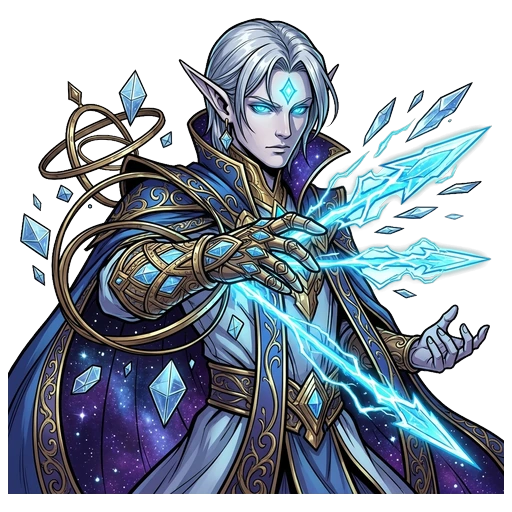
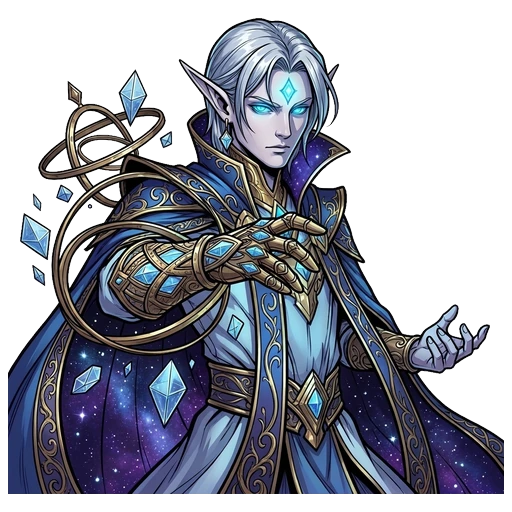
art(cards): remove frost arrows from Cronomante do Terceiro Prisma (blue_177)

Changed region(s): [[0.3438, 0.1562, 0.9688, 0.9375], [0.2812, 0.5938, 0.3438, 0.625], [0.25, 0.5, 0.2812, 0.5312]]

diff --git a/src/data/cardArtPrompts.ts b/src/data/cardArtPrompts.ts
@@ -1055,7 +1055,7 @@ export const CARD_ART_PROMPTS: Record<string, string> = {
   "purple_177_inquisidor_obsidiana_astral": "2D Dark Fantasy gothic baroque cel-shaded ink illustration, lethal pale-haired Astral-Abyssal Elf inquisitor archer with pitch-black void eyes and golden tear-fractures, black-iron and violet armor with starry eclipse rings, aiming a crescent recurve bow of black star-obsidian nocked with a violet void arrow on pure white background.",
   "purple_178_vaelen_oraculo_choro_dourado": "2D Dark Fantasy gothic baroque cel-shaded ink illustration, transcendent Abyssal High Elf Oracle Vaelen with braided white hair, pitch-black void eyes weeping molten gold across his bridge, black-and-purple imperial robes, black-clawed hands ringed in gold, framed by interlocking golden eclipse astrolabes filled with starry black void on pure white background.",
   "blue_176_sentinela_capuz_estelar": "2D Dark Fantasy gothic baroque cel-shaded ink illustration, silver-haired Astral Frost Elf sentinel wearing a white cloak whose inner hood reveals a deep starry sapphire cosmos, cyan-diamond wire circlet and bronze neck-tattoos, drawing a sleek silver-and-sapphire starlight bow on pure white background.",
-  "blue_177_cronomante_terceiro_prisma": "2D Dark Fantasy gothic baroque cel-shaded ink illustration, poised white-haired Boreal Elf chronomancer in star-lined white-and-cobalt robes with glowing cyan forehead crystal and wire crown, unleashing frost-lightning arrows through three interlocking sapphire-and-brass chrono-prisms on pure white background.",
+  "blue_177_cronomante_terceiro_prisma": "2D Dark Fantasy gothic baroque cel-shaded ink illustration, poised white-haired Boreal Elf chronomancer in star-lined white-and-cobalt robes with glowing cyan forehead crystal and brass-and-sapphire gauntlet, flanked by interlocking brass chrono-astrolabe rings and floating sapphire prisms on pure white background.",
   "blue_178_lyriel_vidente_zero_astral": "2D Dark Fantasy gothic baroque cel-shaded ink illustration, levitating Astral Frost High Elf Seer Lyriel with white hair, radiant cyan-diamond crown, cosmic star-lined white cloak, frost-crystal wings, and celestial sapphire longbow aimed amidst shattered ice-prism astrolabes on pure white background.",
   "green_176_sussurrador_seiva_lunar": "2D Dark Fantasy gothic baroque cel-shaded ink illustration, serene Sylvan Moon-Elf druid archer with cascading deep forest-green and chartreuse-lime hair woven with living leaves, golden cat-slit eyes, bark-and-jade vestments, drawing a living root-bow nocked with a bioluminescent moon-sap arrow on pure white background.",
   "green_177_cacador_galhada_esmeralda": "2D Dark Fantasy gothic baroque cel-shaded ink illustration, fierce Sylvan Elf canopy ranger with emerald-and-lime leaf-woven mane, living jade stag-antlers, and ironwood armor, leaping mid-stride while firing a gnarled emerald recurve bow wreathed in thorny briars on pure white background.",

diff --git a/src/components/CardView.tsx b/src/components/CardView.tsx
@@ -494,7 +494,7 @@ export const CardView: React.FC<CardViewProps> = ({
           <div className={`cpa-token-art aura-${displayCard.domain}`}>
             {!imgError && displayCard.imagePath ? (
               <img
-                src={`${displayCard.imagePath}?v=62`}
+                src={`${displayCard.imagePath}?v=63`}
                 alt={displayName}
                 className="cpa-token-img"
                 onError={() => setImgError(true)}
@@ -665,7 +665,7 @@ export const CardView: React.FC<CardViewProps> = ({
 
           {!imgError && displayCard.imagePath ? (
             <img
-              src={`${displayCard.imagePath}?v=62`}
+              src={`${displayCard.imagePath}?v=63`}
               alt={displayName}
               className="card-cutout-img"
               onError={() => setImgError(true)}

diff --git a/public/sw.js b/public/sw.js
@@ -1,4 +1,4 @@
-const CACHE_VERSION = 'chromatic-pact-v75';
+const CACHE_VERSION = 'chromatic-pact-v76';
 const ASSET_CACHE = `${CACHE_VERSION}-assets`;
 
 const PRECACHE_URLS = [
